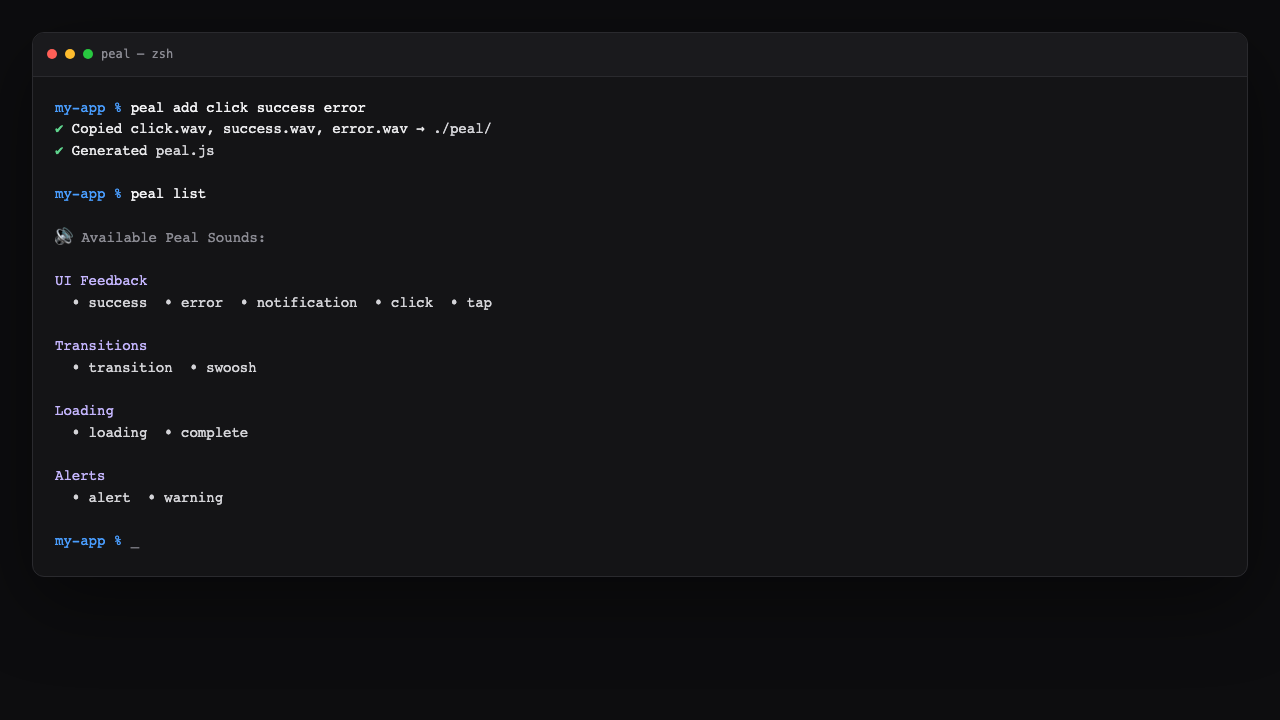
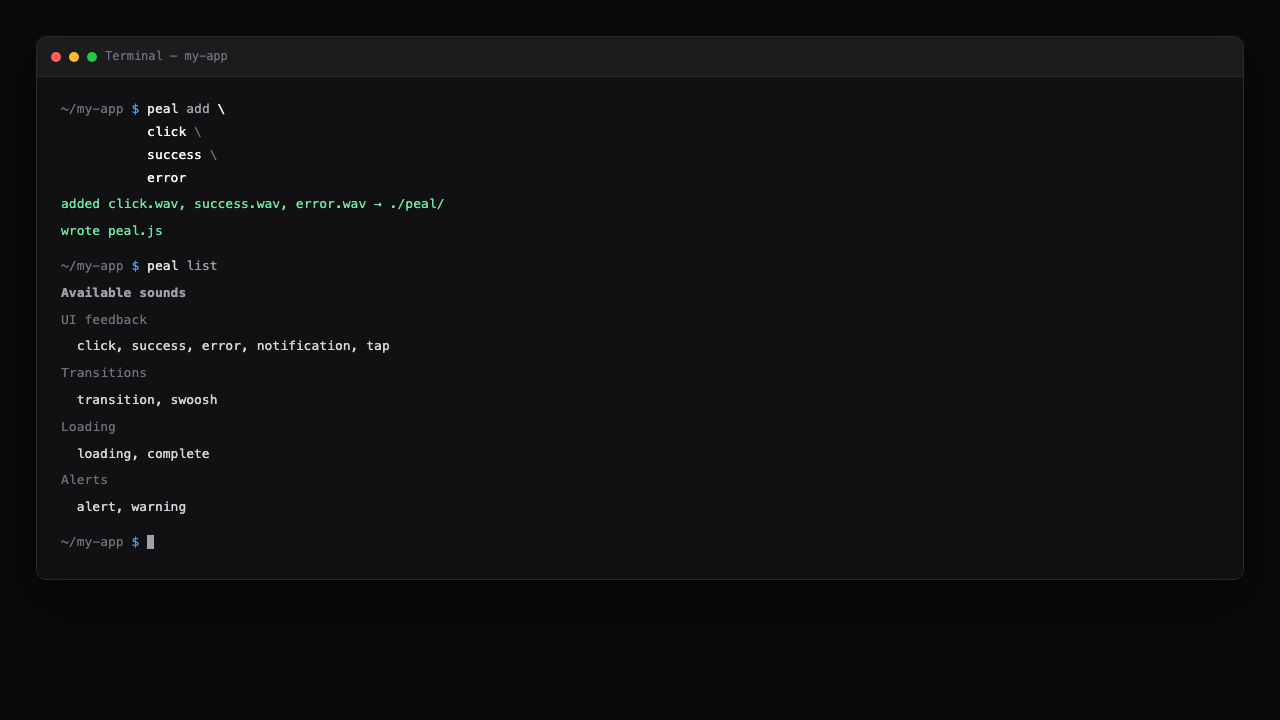
📝 Improve CLI README command layout and terminal screenshot
Use multiline peal add with backslash continuations, cleaner $ prompt
styling, no emoji, and grouped list output in the terminal mock.

diff --git a/docs/screenshots/terminal-cli.html b/docs/screenshots/terminal-cli.html
@@ -7,44 +7,52 @@
   <style>
     * { box-sizing: border-box; margin: 0; padding: 0; }
     body {
-      background: #0d0d0f;
-      color: #e8e8ea;
-      font: 14px/1.55 ui-monospace, SFMono-Regular, Menlo, Monaco, Consolas, monospace;
-      padding: 32px;
-      min-width: 720px;
+      background: #0a0a0b;
+      color: #d4d4d8;
+      font: 13px/1.6 ui-monospace, SFMono-Regular, Menlo, Monaco, Consolas, monospace;
+      padding: 36px;
+      min-width: 760px;
     }
     .window {
-      background: #141416;
+      background: #111113;
       border: 1px solid #2a2a2e;
-      border-radius: 12px;
+      border-radius: 10px;
       overflow: hidden;
-      box-shadow: 0 24px 80px rgba(0,0,0,.45);
+      box-shadow: 0 20px 60px rgba(0, 0, 0, 0.5);
     }
     .titlebar {
       display: flex;
       align-items: center;
       gap: 8px;
-      padding: 12px 14px;
-      background: #1a1a1d;
+      padding: 10px 14px;
+      background: #1c1c1e;
       border-bottom: 1px solid #2a2a2e;
-      color: #8b8b93;
+      color: #71717a;
       font-size: 12px;
     }
     .dot { width: 10px; height: 10px; border-radius: 50%; }
     .dot.red { background: #ff5f57; }
     .dot.yellow { background: #febc2e; }
     .dot.green { background: #28c840; }
-    pre {
-      padding: 20px 22px 24px;
-      white-space: pre-wrap;
-      word-break: break-word;
+    .terminal {
+      padding: 22px 24px 26px;
     }
-    .prompt { color: #4a9eff; }
-    .cmd { color: #f2f2f4; }
-    .ok { color: #5fd38d; }
-    .muted { color: #8b8b93; }
-    .section { color: #c4b5fd; }
-    .item { color: #d4d4d8; }
+    .line { min-height: 1.6em; }
+    .line + .line { margin-top: 2px; }
+    .line.output { margin-top: 6px; }
+    .line.gap { margin-top: 14px; }
+    .path { color: #71717a; }
+    .sigil { color: #4a9eff; }
+    .bin { color: #e4e4e7; }
+    .subcmd { color: #a1a1aa; }
+    .arg { color: #fafafa; }
+    .cont { color: #52525b; padding-left: 11ch; }
+    .ok { color: #6ee7a0; }
+    .dim { color: #71717a; }
+    .label { color: #a1a1aa; font-weight: 600; margin-top: 10px; }
+    .group { color: #71717a; margin-top: 8px; }
+    .sounds { color: #d4d4d8; padding-left: 2ch; }
+    .cursor { display: inline-block; width: 7px; height: 1.1em; background: #a1a1aa; vertical-align: text-bottom; }
   </style>
 </head>
 <body>
@@ -53,29 +61,40 @@
       <span class="dot red"></span>
       <span class="dot yellow"></span>
       <span class="dot green"></span>
-      <span>peal — zsh</span>
+      <span>Terminal — my-app</span>
     </div>
-    <pre><span class="prompt">my-app %</span> <span class="cmd">peal add click success error</span>
-<span class="ok">✔</span> Copied click.wav, success.wav, error.wav → <span class="item">./peal/</span>
-<span class="ok">✔</span> Generated <span class="item">peal.js</span>
+    <div class="terminal">
+      <div class="line">
+        <span class="path">~/my-app</span> <span class="sigil">$</span>
+        <span class="bin"> peal</span><span class="subcmd"> add</span><span class="arg"> \</span>
+      </div>
+      <div class="line cont"><span class="arg">click</span><span class="dim"> \</span></div>
+      <div class="line cont"><span class="arg">success</span><span class="dim"> \</span></div>
+      <div class="line cont"><span class="arg">error</span></div>
 
-<span class="prompt">my-app %</span> <span class="cmd">peal list</span>
+      <div class="line output ok">added click.wav, success.wav, error.wav → ./peal/</div>
+      <div class="line output ok">wrote peal.js</div>
 
-<span class="muted">🔊 Available Peal Sounds:</span>
+      <div class="line gap">
+        <span class="path">~/my-app</span> <span class="sigil">$</span>
+        <span class="bin"> peal</span><span class="subcmd"> list</span>
+      </div>
 
-<span class="section">UI Feedback</span>
-  <span class="item">• success</span>  <span class="item">• error</span>  <span class="item">• notification</span>  <span class="item">• click</span>  <span class="item">• tap</span>
+      <div class="line output label">Available sounds</div>
+      <div class="line output group">UI feedback</div>
+      <div class="line output sounds">click, success, error, notification, tap</div>
+      <div class="line output group">Transitions</div>
+      <div class="line output sounds">transition, swoosh</div>
+      <div class="line output group">Loading</div>
+      <div class="line output sounds">loading, complete</div>
+      <div class="line output group">Alerts</div>
+      <div class="line output sounds">alert, warning</div>
 
-<span class="section">Transitions</span>
-  <span class="item">• transition</span>  <span class="item">• swoosh</span>
-
-<span class="section">Loading</span>
-  <span class="item">• loading</span>  <span class="item">• complete</span>
-
-<span class="section">Alerts</span>
-  <span class="item">• alert</span>  <span class="item">• warning</span>
-
-<span class="prompt">my-app %</span> <span class="muted">_</span></pre>
+      <div class="line gap">
+        <span class="path">~/my-app</span> <span class="sigil">$</span>
+        <span class="cursor"></span>
+      </div>
+    </div>
   </div>
 </body>
 </html>

diff --git a/README.npm.md b/README.npm.md
@@ -18,7 +18,11 @@ No sound hosting, no accounts. Files sit in your repo; you call `peal.click()` w
 
 ```bash
 npm install @peal-sounds/peal
-peal add click success error
+
+peal add \
+  click \
+  success \
+  error
 ```
 
 That writes something like:
@@ -53,7 +57,11 @@ async function save() {
 
 `./peal.js` is created by the CLI in your project root. You are not importing the npm package for playback — only the generated helper (which wraps Howler and points at `./peal/*.wav`).
 
-Prefer a one-off without installing? `npx @peal-sounds/peal add click success error` does the same thing.
+Prefer a one-off without installing?
+
+```bash
+npx @peal-sounds/peal add click
+```
 
 Also published as `@arach/peal` (same package, older namespace).
 
@@ -84,10 +92,14 @@ Run `peal list` for the full list in the terminal.
 ## CLI
 
 ```bash
-peal add                    # interactive picker
-peal add click success      # add specific sounds
-peal add --dir ./sounds     # custom output folder
-peal add --typescript       # generate peal.ts instead of peal.js
+peal add                         # interactive picker
+peal add click                   # one sound
+peal add click success error     # several at once
+peal add \
+  click \
+  success                        # same thing, easier to read
+peal add --dir ./sounds          # custom output folder
+peal add --typescript            # generate peal.ts instead of peal.js
 
 peal list                   # show available sounds
 peal play click             # preview a sound